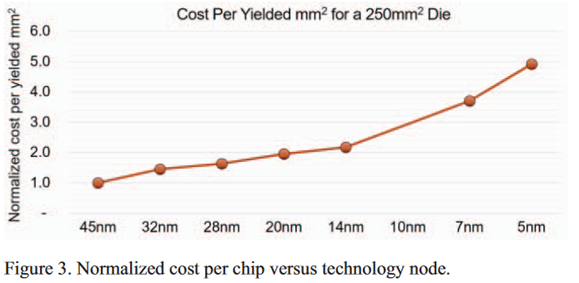
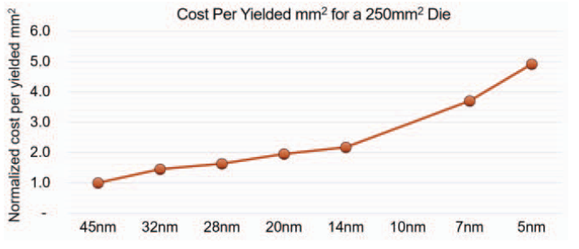
update

diff --git a/Articles/why-chiplets-emerged.html b/Articles/why-chiplets-emerged.html
@@ -4,7 +4,7 @@
     <meta charset="UTF-8" />
     <meta name="viewport" content="width=device-width, initial-scale=1.0" />
     <title>Why Chiplets Emerged: Scaling Beyond Monolithic Chips</title>
-    <meta name="description" content="A blog-style explanation of why chiplets emerged as monolithic scaling slowed." />
+    <meta name="description" content="A professional overview of why chiplets emerged, with emphasis on networking, microarchitecture, and advanced packaging constraints." />
     <style>
       :root {
         --bg: #f6f2ea;
@@ -40,6 +40,13 @@
       h2 { margin-top: 2rem; font-size: 1.45rem; }
       p, li { font-size: 1.02rem; }
       .lead { color: var(--muted); max-width: 72ch; }
+      .callout {
+        margin: 1.2rem 0;
+        padding: 0.9rem 1rem;
+        border-left: 4px solid var(--accent);
+        background: #f9f4ef;
+        border-radius: 8px;
+      }
       ul { padding-left: 1.25rem; }
       figure {
         margin: 1.4rem 0;
@@ -47,6 +54,29 @@
         border: 1px solid var(--line);
         border-radius: 14px;
         background: #fff;
+      }
+      .figure-grid {
+        display: grid;
+        grid-template-columns: repeat(2, minmax(0, 1fr));
+        gap: 14px;
+        align-items: start;
+      }
+      .figure-grid figure {
+        margin: 1rem 0;
+      }
+      .subfigure {
+        margin: 1rem 0;
+      }
+      .subfigure .subcaption {
+        margin-top: 0.7rem;
+        color: var(--muted);
+        font-size: 0.86rem;
+        text-align: center;
+      }
+      @media (max-width: 820px) {
+        .figure-grid {
+          grid-template-columns: 1fr;
+        }
       }
       img {
         display: block;
@@ -101,102 +131,131 @@
       <a class="jump-button" href="../articles.html">← Back to Articles</a>
       <div class="eyebrow">Knowledge Note</div>
       <h1>Why Chiplets Emerged: Scaling Beyond Monolithic Chips</h1>
-      <p class="lead">The modern compute boom, especially in AI, has exposed a painful truth: demand is accelerating faster than traditional chip scaling can deliver. Chiplets emerged as a practical answer to this mismatch.</p>
-      <p>The semiconductor industry spent decades relying on transistor shrinking and larger monolithic dies to raise performance. That approach still matters, but it no longer carries the full load by itself. As AI systems grew, three limits became obvious at once: workload demand rose sharply, process-node progress slowed, and large-die economics became harder to justify.</p>
+      <p class="lead">The AI era has made one trend unmistakable: system-level demand is scaling faster than monolithic silicon can economically and physically sustain. Chiplets emerged as an engineering response to that widening gap.</p>
+      <p>For decades, performance gains mostly came from transistor scaling and larger single dies. That path still matters, but it is no longer sufficient by itself. As AI systems expanded, three constraints converged: workload demand accelerated, process-node scaling slowed, and the risk profile of very large dies worsened.</p>
 
-      <h2>The demand curve changed</h2>
-      <p>AI workloads are now driving a new wave of system requirements:</p>
+      <h2>Demand Surge Across Compute, Memory, and Fabric</h2>
+      <p>Modern AI workloads are pushing every major subsystem simultaneously:</p>
       <ul>
-        <li>More raw compute for training and inference</li>
-        <li>Larger memory capacity and higher memory bandwidth</li>
-        <li>Faster communication inside and across devices</li>
-        <li>Better interconnect performance in switches and network fabrics</li>
+        <li>Higher compute throughput for both training and inference</li>
+        <li>Larger memory capacity and substantially higher memory bandwidth</li>
+        <li>Higher-performance interconnects in package, board, and cluster fabrics</li>
       </ul>
-      <p>This is not a small, temporary bump. Model scale, training data size, and hardware appetite have all grown rapidly over the last decade.<sup>2</sup> A representative large-model case is GPT-4 training at substantial cluster scale and cost.<sup>3</sup></p>
+      <p>This is not a temporary spike. Model scale, training data volume, and infrastructure footprint have all grown sharply over the last decade.<sup>2</sup> One representative example is GPT-4 era training at massive cluster scale and cost (25,000 NVIDIA A100 GPUs over 2,280 hours, with cost estimates above $40 million).<sup>3</sup></p>
 
       <figure>
         <img src="./figures/why-chiplets-emerged/scaling_law.png" alt="Scaling law trend showing better model capability with more compute, data, and parameters" />
-        <figcaption>Figure 1. Scaling-law behavior: model quality generally improves as compute, data, and parameter count increase.<sup>1</sup></figcaption>
+        <figcaption>Figure 1. Scaling-law: model quality generally improves as compute, data, and parameter count increase.<sup>1</sup></figcaption>
       </figure>
       <figure>
-        <img src="./figures/why-chiplets-emerged/notable_ai_models.png" alt="Historical growth of compute demand for notable AI models" />
-        <figcaption>Figure 2. Compute demand of notable AI models has increased steeply over time.<sup>2</sup></figcaption>
-      </figure>
-      <figure>
-        <img src="./figures/why-chiplets-emerged/notable_ai_models_para.png" alt="Historical growth of parameter counts for notable AI models" />
-        <figcaption>Figure 3. Model parameter counts have also expanded rapidly, amplifying infrastructure pressure.<sup>2</sup></figcaption>
+        <div class="figure-grid">
+          <div class="subfigure">
+            <img src="./figures/why-chiplets-emerged/notable_ai_models.png" alt="Historical growth of compute demand for notable AI models" />
+            <p class="subcaption">(a) Training compute</p>
+          </div>
+          <div class="subfigure">
+            <img src="./figures/why-chiplets-emerged/notable_ai_models_para.png" alt="Historical growth of parameter counts for notable AI models" />
+            <p class="subcaption">(b) Number of parameters</p>
+          </div>
+        </div>
+        <figcaption>Figure 2. Historical scaling trends in notable AI models across compute demand and parameter count.<sup>2</sup></figcaption>
       </figure>
 
-      <h2>Why monolithic scaling is under pressure</h2>
-      <p>Classic Moore-style progress is slowing down in several ways:</p>
+      <h2>Monolithic Scaling is Under Pressure</h2>
+      <p>As Moore's law slows, scaling a single large die becomes harder to sustain technically and economically:</p>
       <ul>
-        <li>Process node transitions are harder and slower</li>
-        <li>New nodes are significantly more expensive per step</li>
-        <li>Physical limits are becoming visible at advanced nodes</li>
-        <li>Very large dies suffer lower yield</li>
-        <li>Reticle limits cap how far a single die can scale</li>
-        <li>Power delivery and thermal constraints become harder at larger scales<sup>6</sup></li>
+        <li>Node transitions are slower, costlier, and more complex</li>
+        <li>Leading-edge process adoption increases development and mask cost</li>
+        <li>Physical limits become more visible at advanced geometries</li>
+        <li>Very large dies experience lower yield and larger cost variance</li>
+        <li>Reticle limits constrain maximum monolithic die area</li>
+        <li>Timing closure, power delivery, thermals, and validation complexity all increase<sup>6</sup></li>
       </ul>
-      <p>Even if monolithic design is still viable for many products, its economic and technical risk increases quickly as die size and complexity grow.</p>
+      <p>Monolithic design remains viable for many products, but risk increases quickly with die size and complexity, especially for high-performance compute parts.</p>
 
-      <figure>
-        <img src="./figures/why-chiplets-emerged/process_node_introduction.png" alt="Process-node evolution timeline showing slower cadence over time" />
-        <figcaption>Figure 4. Process-node progress continues, but the cadence has slowed compared with earlier decades.<sup>4</sup></figcaption>
-      </figure>
-      <figure>
-        <img src="./figures/why-chiplets-emerged/normalized_cost.png" alt="Normalized cost trend showing higher cost at newer process nodes" />
-        <figcaption>Figure 5. Newer nodes are increasingly expensive, raising the economic barrier for pure monolithic scaling.<sup>4</sup></figcaption>
-      </figure>
-      <figure>
-        <img src="./figures/why-chiplets-emerged/yield.png" alt="Yield comparison indicating larger dies have lower yield and chiplet partitioning can help" />
-        <figcaption>Figure 6. Larger single dies tend to have lower yield; partitioning into chiplets can improve manufacturability.<sup>7</sup></figcaption>
-      </figure>
-      <figure>
-        <img src="./figures/why-chiplets-emerged/reticle_limit.png" alt="Reticle limit diagram constraining maximum monolithic die size" />
-        <figcaption>Figure 7. Reticle limits constrain how far monolithic die size can scale.<sup>4</sup></figcaption>
-      </figure>
+      <div class="figure-grid">
+        <figure>
+          <img src="./figures/why-chiplets-emerged/process_node_introduction.png" alt="Process-node evolution timeline showing slower cadence over time" />
+          <figcaption>Figure 3. Process-node progress continues, but the cadence has slowed compared with earlier decades.<sup>4</sup></figcaption>
+        </figure>
+        <figure>
+          <img src="./figures/why-chiplets-emerged/normalized_cost.png" alt="Normalized cost trend showing higher cost at newer process nodes" />
+          <figcaption>Figure 4. Newer nodes are increasingly expensive, raising the economic barrier for pure monolithic scaling.<sup>4</sup></figcaption>
+        </figure>
+      </div>
+      <div class="figure-grid">
+        <figure>
+          <img src="./figures/why-chiplets-emerged/yield.png" alt="Yield comparison indicating larger dies have lower yield and chiplet partitioning can help" />
+          <figcaption>Figure 5. Larger single dies tend to have lower yield; partitioning into chiplets can improve manufacturability.<sup>7</sup></figcaption>
+        </figure>
+        <figure>
+          <img src="./figures/why-chiplets-emerged/reticle_limit.png" alt="Reticle limit diagram constraining maximum monolithic die size" />
+          <figcaption>Figure 6. Reticle limits constrain how far monolithic die size can scale.<sup>4</sup></figcaption>
+        </figure>
+      </div>
 
-      <h2>Chiplets: a new integration layer</h2>
-      <p>Chiplets introduce another level in the system hierarchy. Instead of forcing all functions into one giant die, designers can partition functionality into smaller dies and integrate them inside one package.</p>
-      <p>This shifts scaling from only transistor-level progress to architecture-level and packaging-level progress.</p>
-      <p>You can think of modern system scaling as a multi-layer problem:</p>
+      <h2>Chiplet: a New Dimension of Scaling</h2>
+      <p><strong>What is chiplet technology?</strong></p>
+      <p>A chiplet-based design partitions a monolithic SoC into multiple smaller dies, each optimized for a specific role, then integrates them in one package through high-bandwidth die-to-die links so they operate as a single logical system.</p>
+      <p>From a microarchitecture perspective, this enables functional disaggregation: compute tiles, IO dies, cache or memory-adjacent dies, and accelerators can be developed and reused more independently.</p>
+      <p>This shifts scaling from transistor-only progress to co-optimization across manufacturing, packaging, and system-level integration.</p>
+
+      <p><strong>Advantages of chiplets</strong></p>
+      <p>Chiplet-based products offer several practical advantages:</p>
       <ul>
-        <li>On-die architecture</li>
-        <li>Package-level integration (chiplets)</li>
-        <li>Board or machine-level integration</li>
-        <li>Rack and cluster-level scaling</li>
+        <li>Higher effective yield by partitioning large dies into smaller known-good components</li>
+        <li>Reusable IP blocks and faster product-family iteration</li>
+        <li>Process-node matching so only critical blocks use leading-edge nodes</li>
+        <li>Better cost/performance tradeoffs across diverse market segments</li>
       </ul>
-      <p>Real performance growth comes from balancing all layers, not over-optimizing only one.</p>
+      <p>Accordingly, leading products across CPUs, GPUs, switching ASICs, and FPGAs increasingly adopt chiplet-oriented integration strategies.</p>
 
-      <h2>Why advanced packaging matters</h2>
-      <p>Chiplets are not just an architecture idea; they are enabled by packaging technology:</p>
+      <p><strong>Advanced packaging is the enabler</strong></p>
+      <p>Chiplets are not only an architecture concept; they are fundamentally enabled by packaging technology:</p>
       <ul>
-        <li>High-density die-to-die links</li>
-        <li>Better substrate and interposer capabilities</li>
-        <li>Improved integration methods for heterogeneous dies</li>
+        <li>High-density, low-energy die-to-die links</li>
+        <li>More capable substrates, bridges, and interposer technologies</li>
+        <li>Mature integration methods for heterogeneous process nodes and IP blocks</li>
       </ul>
-      <p>Advanced packaging makes it realistic to combine compute, IO, memory-related logic, and other functions from different process nodes in one package.</p>
+      <p>Advanced packaging makes it practical to combine compute, IO, and memory-adjacent logic from different process nodes in one package. This is a core reason chiplet products have become mainstream only in recent years.</p>
+
+      <figure>
+        <img src="./figures/why-chiplets-emerged/chiplet_yield.png" alt="Diagram illustrating what chiplet is, and how it improves yield" />
+        <figcaption>Figure 7. Chiplet assembles multiple smaller dies into a single package, allowing for reduced technology difficulties and higher yield.<sup>4</sup></figcaption>
+      </figure>
 
       <figure>
         <img src="./figures/why-chiplets-emerged/packaging.png" alt="Advanced packaging illustration for integrating multiple dies in one package" />
         <figcaption>Figure 8. Advanced packaging technologies make multi-die chiplet integration practical at product scale.<sup>8</sup></figcaption>
       </figure>
 
-      <p>That creates several advantages:</p>
+      <h2>Insights from the Networking Perspective</h2>
+      <p>To meet the requirements of modern and future AI training and inference, the computing infrastructure has to exhaust the scaling potential across all layers:</p>
       <ul>
-        <li>Better yield from smaller die sizes</li>
-        <li>More flexible design reuse across product lines</li>
-        <li>Process-node matching, so leading-edge silicon is used only where it matters most</li>
-        <li>Potentially better cost-performance tradeoffs</li>
+        <li>On-die architecture</li>
+        <li>Multi-die packaging</li>
+        <li>Board-, machine-, and rack-level integration</li>
+        <li>In-cluster scaling</li>
+        <li>Inter-cluster cooperation</li>
       </ul>
+      <p>At every level, data movement is the key bottleneck. This presents a wide range of optimization opportunities, covering:</p>
+      <ul>
+        <li>Networks on Chip (NoCs)</li>
+        <li>Networks in Package (NiPs)</li>
+        <li>Scale-Up Networks</li>
+        <li>Scale-Out Networks</li>
+        <li>Scale-Across Networks</li>
+      </ul>
+      <p>Real throughput gains come from balancing all layers rather than over-optimizing only one.</p>
+      <p style="color: var(--muted); font-style: italic;">A subjective point: we see strong potential in researching interconnects for chiplet-based switching chips. It not only involves optimization at the NoC and NiP levels, but can also bring more possibilities to higher-level network designs by enabling better network switches.</p>
+      <div class="callout">
+        <strong>Core Takeaway:</strong> 
+        <p>Chiplets do not replace process scaling; they reduce dependence on process scaling alone. Sustainable performance growth comes from joint innovation across manufacturing, packaging, and networking.</p>
+      </div>
 
-      <h2>The core takeaway</h2>
-      <p>Chiplets are not a replacement for process scaling. They are a response to the limits of relying on process scaling alone.</p>
-      <p>As AI and large-scale computing continue to grow, the winning strategy is increasingly clear: combine transistor innovation, architecture innovation, packaging innovation, and system-level co-design. Chiplets sit at the center of that transition.</p>
-
-      <p class="signature">Draft written by Yang Zhang and Xu Wang (2024/07/23)</p>
-      <p class="signature">Polished and formatted by GPT4.5 mini (2026/04/20)</p>
-      <p class="signature">Latest update (2026/04/20)</p>
+      <p class="signature">Draft written by Yang Zhang and Xu Wang (2024/07)</p>
+      <p class="signature">Polished and formatted by GPT-5.3-Codex (2026/04)</p>
+      <p class="signature">Latest update (2026/04)</p>
 
       
       <hr class="rule" />
@@ -209,7 +268,7 @@
         <li>Wong, H-S. Philip, R. Willard, and Inez Kerr Bell. "IC Technology-What Will the Next Node Offer Us?" 2019 IEEE Hot Chips 31 Symposium.</li>
         <li>Esmaeilzadeh, Hadi, et al. "Dark silicon and the end of multicore scaling." ISCA 2011.</li>
         <li><a href="https://en.wikichip.org/wiki/chiplet" target="_blank" rel="noopener">https://en.wikichip.org/wiki/chiplet</a></li>
-        <li>Raja Swaminathan, AMD, "Case Study: AMD products built with 3D packaging", Hot Chips 2021</a></li>
+        <li>Raja Swaminathan, AMD, "Case Study: AMD products built with 3D packaging", Hot Chips 2021.</li>
       </ol>
     </main>
   </body>

diff --git a/assets/js/data.js b/assets/js/data.js
@@ -46,11 +46,11 @@ window.SiteData = {
       htmlPath: "./Articles/why-chiplets-emerged.html",
       summary: "Why AI-era demand outpaces monolithic scaling, and how chiplets plus advanced packaging extend system-level growth."
     },
-    {
-      title: "Chiplets in Practice: Scaling Limits, D2D Links, and Shipping Products",
-      htmlPath: "./Articles/chiplets-in-practice.html",
-      summary: "A practical rewrite of the chiplet notes, covering design metrics, die-to-die links, packaging, and real CPU, GPU, and AI accelerator examples."
-    }
+    // {
+    //   title: "Chiplets in Practice: Scaling Limits, D2D Links, and Shipping Products",
+    //   htmlPath: "./Articles/chiplets-in-practice.html",
+    //   summary: "A practical rewrite of the chiplet notes, covering design metrics, die-to-die links, packaging, and real CPU, GPU, and AI accelerator examples."
+    // }
   ],
   news: {
     "2026": [
